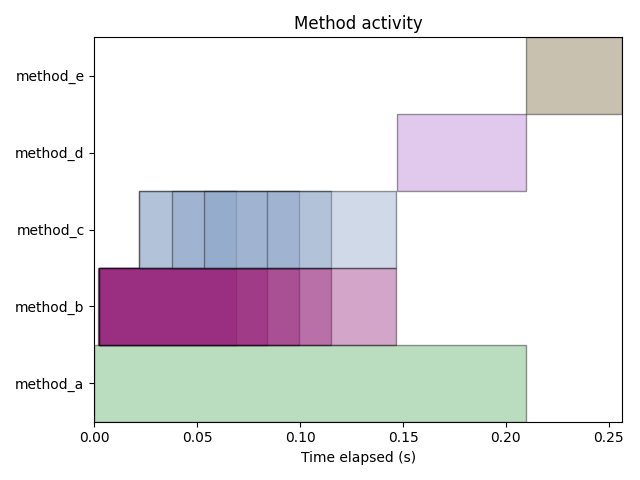
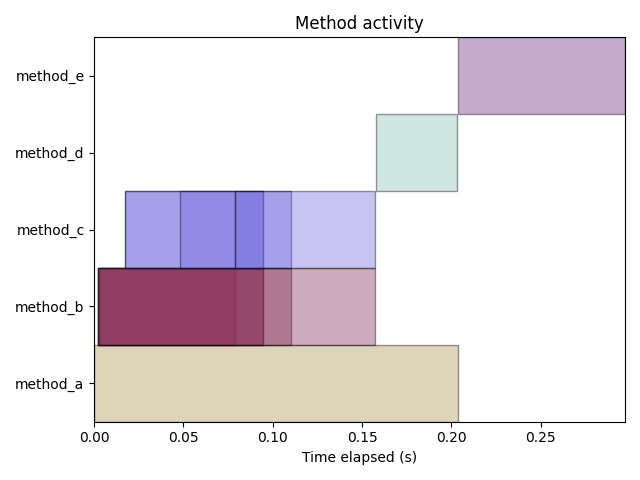
Updated examples in README

diff --git a/README.md b/README.md
@@ -22,11 +22,11 @@ The **display_profiles** method is used to display all time profiles, ordered by
 ```
 Name        Calls    Average (ms)    Longest (ms)    Bottleneck (ms)
 --------  -------  --------------  --------------  -----------------
-method_a        1          209.75          209.75             209.75
-method_b        5          100.54          144.18             144.66
-method_c        5           59.21           93.50             125.10
-method_d        1           62.82           62.82              62.82
-method_e        1           46.85           46.85              46.85
+method_a        1          203.50          203.50             203.50
+method_b        5          104.82          155.19             155.40
+method_c        5           58.86           78.35             140.00
+method_d        1           45.83           45.83              45.83
+method_e        1           93.76           93.76              93.76
 ```
 
 The **plot_profiles** and **plot_merged** methods are used to plot all time profiles as ranges, ordered by earliest method call.
